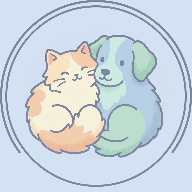
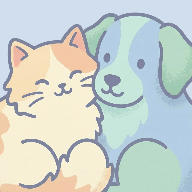
refactor(splash): refactor splash screen with proper animation cleanup
- Replace Zustand store with simple useState hook
- Add animation cleanup to prevent memory leaks
- Enable native driver for better performance
- Use scaleX transform for smoother loading bar
- Fix Android overflow issue with transformOrigin
- Add expo splash screen options for fade animation

fix(onboarding): update logo container styles to match login screen

- Replace outerCircle/innerCircle with logoCircle/logoMask pattern
- Add overflow hidden mask for proper image clipping
- Match dimensions and styling with login screen

diff --git a/components/SplashScreen/AnimatedSplashScreen.tsx b/components/SplashScreen/AnimatedSplashScreen.tsx
@@ -1,0 +1,110 @@
+import { useEffect, useRef, ReactNode } from 'react';
+import { View, StyleSheet, Animated, Easing, Platform } from 'react-native';
+import { useSplashAnimation } from '@/hooks/useSplashAnimation';
+import { useFonts } from 'expo-font';
+import * as SplashScreen from 'expo-splash-screen';
+import { Roboto_400Regular, Roboto_500Medium, Roboto_700Bold } from '@expo-google-fonts/roboto';
+
+export function AnimatedSplashScreen({
+  children,
+}: {
+  children: ReactNode;
+}) {
+  const { isVisible, hideSplash } = useSplashAnimation();
+  const [fontsLoaded, fontError] = useFonts({
+    Roboto_400Regular,
+    Roboto_500Medium,
+    Roboto_700Bold,
+  });
+
+  const progress = useRef(new Animated.Value(0)).current;
+  const animationRef = useRef<Animated.CompositeAnimation | null>(null);
+
+  const shouldAnimate = isVisible && (fontsLoaded || fontError);
+  const canShowApp = !isVisible || (fontsLoaded && !fontError);
+
+  useEffect(() => {
+    if (!shouldAnimate) {
+      return;
+    }
+
+    animationRef.current = Animated.timing(progress, {
+      toValue: 1,
+      duration: 1500,
+      easing: Easing.out(Easing.ease),
+      useNativeDriver: true,
+    });
+
+    animationRef.current.start(({ finished }) => {
+      if (finished) {
+        SplashScreen.hideAsync();
+        hideSplash();
+      }
+    });
+
+    return () => {
+      animationRef.current?.stop();
+      animationRef.current = null;
+    };
+  }, [shouldAnimate, hideSplash, progress]);
+
+  // If app is ready and splash is hidden, render children directly
+  if (canShowApp && !isVisible) {
+    return <>{children}</>;
+  }
+
+  return (
+    <View style={styles.container}>
+      {/* Loading bar */}
+      <View style={styles.loadingBarContainer}>
+        <Animated.View
+          style={[
+            styles.loadingBarFill,
+            {
+              transform: [
+                {
+                  scaleX: progress.interpolate({
+                    inputRange: [0, 1],
+                    outputRange: [0, 1],
+                  }),
+                },
+              ],
+              // Workaround for Android overflow issue with scaleX
+              ...Platform.select({
+                android: {
+                  transformOrigin: 'left',
+                },
+              }),
+            },
+          ]}
+        />
+      </View>
+    </View>
+  );
+}
+
+const styles = StyleSheet.create({
+  container: {
+    position: 'absolute',
+    top: 0,
+    left: 0,
+    right: 0,
+    bottom: 0,
+    backgroundColor: '#D3DFF1',
+    justifyContent: 'flex-end',
+    alignItems: 'center',
+    paddingBottom: 80,
+  },
+  loadingBarContainer: {
+    width: 180,
+    height: 4,
+    backgroundColor: 'rgba(0, 0, 0, 0.1)',
+    borderRadius: 2,
+    overflow: 'hidden',
+  },
+  loadingBarFill: {
+    height: '100%',
+    backgroundColor: '#007AFF',
+    borderRadius: 2,
+  },
+});

diff --git a/app/_layout.tsx b/app/_layout.tsx
@@ -5,8 +5,6 @@ import { SafeAreaProvider } from 'react-native-safe-area-context';
 import { StatusBar } from 'expo-status-bar';
 import * as Notifications from 'expo-notifications';
 import * as SplashScreen from 'expo-splash-screen';
-import { useFonts } from 'expo-font';
-import { Roboto_400Regular, Roboto_500Medium, Roboto_700Bold } from '@expo-google-fonts/roboto';
 import { Stack, useRouter, useSegments } from "expo-router";
 import { QueryClient, QueryClientProvider, focusManager } from '@tanstack/react-query';
 import AsyncStorage from '@react-native-async-storage/async-storage';
@@ -32,6 +30,7 @@ import { createToastConfig } from '@/lib/toast/toastConfig';
 import { SUBSCRIPTION_ROUTES, TAB_ROUTES } from '@/constants/routes';
 import { LAYOUT } from '@/constants';
 import "../lib/i18n";
+import { AnimatedSplashScreen } from '@/components/SplashScreen/AnimatedSplashScreen';
 
 // Enhanced QueryClient with better configuration
 const queryClient = new QueryClient(MOBILE_QUERY_CONFIG);
@@ -294,30 +293,20 @@ function RootLayoutContent() {
 
 // Prevent splash screen from auto-hiding before font loading
 SplashScreen.preventAutoHideAsync();
+SplashScreen.setOptions({
+  duration: 1000,
+  fade: true,
+});
 
 export default function RootLayout() {
-  const [fontsLoaded, fontError] = useFonts({
-    Roboto_400Regular,
-    Roboto_500Medium,
-    Roboto_700Bold,
-  });
-
-  useEffect(() => {
-    if (fontsLoaded || fontError) {
-      SplashScreen.hideAsync();
-    }
-  }, [fontsLoaded, fontError]);
-
-  if (!fontsLoaded && !fontError) {
-    return null;
-  }
-
   return (
     <GestureHandlerRootView style={{ flex: 1 }}>
       <SafeAreaProvider>
-        <AppProviders>
-          <RootLayoutContent />
-        </AppProviders>
+        <AnimatedSplashScreen>
+          <AppProviders>
+            <RootLayoutContent />
+          </AppProviders>
+        </AnimatedSplashScreen>
       </SafeAreaProvider>
     </GestureHandlerRootView>
   );

diff --git a/app/(onboarding)/completed.tsx b/app/(onboarding)/completed.tsx
@@ -54,11 +54,11 @@ export default function OnboardingCompleted() {
     heroContainer: {
       marginBottom: 32,
     },
-    outerCircle: {
-      width: 160,
-      height: 160,
-      borderRadius: 80,
-      backgroundColor: '#d3dff1',
+    logoCircle: {
+      width: 96,
+      height: 96,
+      borderRadius: 48,
+      backgroundColor: theme.colors.surface + 'F0',
       borderColor: theme.colors.surface,
       borderWidth: 2,
       justifyContent: 'center',
@@ -69,10 +69,11 @@ export default function OnboardingCompleted() {
       shadowOpacity: 0.2,
       shadowRadius: 8,
     },
-    innerCircle: {
-      width: 128,
-      height: 128,
-      borderRadius: 64,
+    logoMask: {
+      width: '100%',
+      height: '100%',
+      borderRadius: 44,
+      overflow: 'hidden',
       backgroundColor: '#d3dff1',
       justifyContent: 'center',
       alignItems: 'center',
@@ -153,8 +154,8 @@ export default function OnboardingCompleted() {
           
           {/* Hero Icon */}
           <View style={styles.heroContainer}>
-            <View style={styles.outerCircle}>
-              <View style={styles.innerCircle}>
+            <View style={styles.logoCircle}>
+              <View style={styles.logoMask}>
                 <Image
                   source={require('../../assets/images/foreground.png')}
                   style={styles.logoImage}

diff --git a/hooks/useSplashAnimation.ts b/hooks/useSplashAnimation.ts
@@ -1,0 +1,11 @@
+import { useState, useCallback } from 'react';
+
+export function useSplashAnimation() {
+  const [isVisible, setIsVisible] = useState(true);
+
+  const hideSplash = useCallback(() => {
+    setIsVisible(false);
+  }, []);
+
+  return { isVisible, hideSplash };
+}

diff --git a/components/SplashScreen/index.ts b/components/SplashScreen/index.ts
@@ -1,0 +1,2 @@
+export { AnimatedSplashScreen } from './AnimatedSplashScreen';
+export { useSplashAnimation } from '@/hooks/useSplashAnimation';
